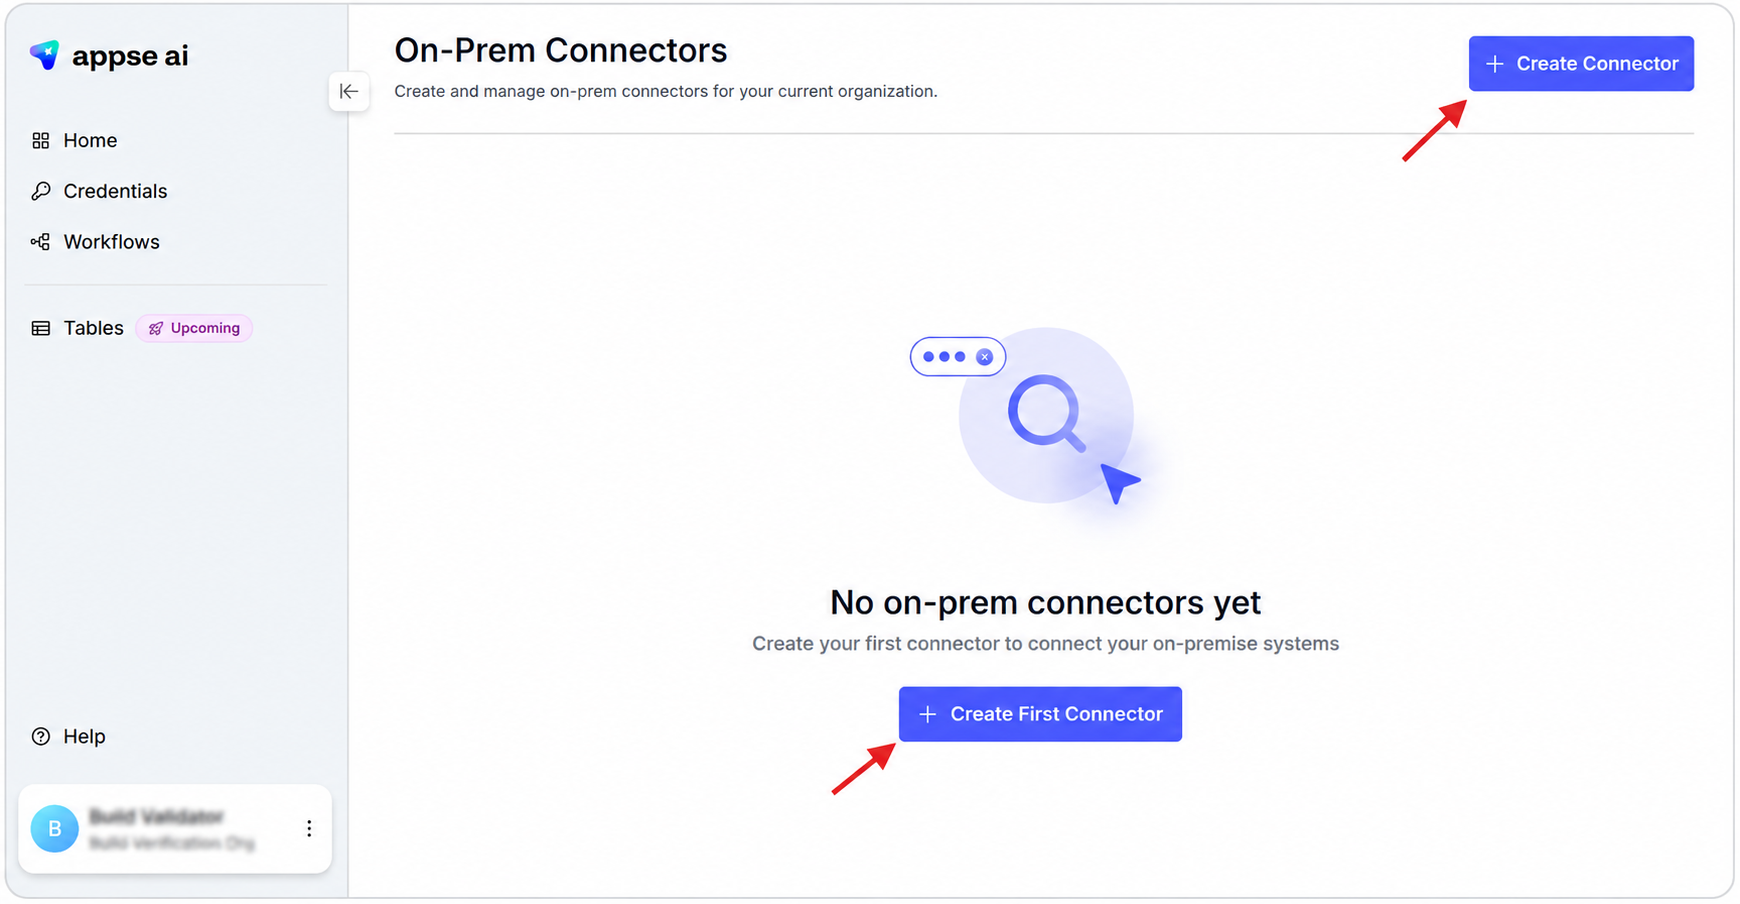
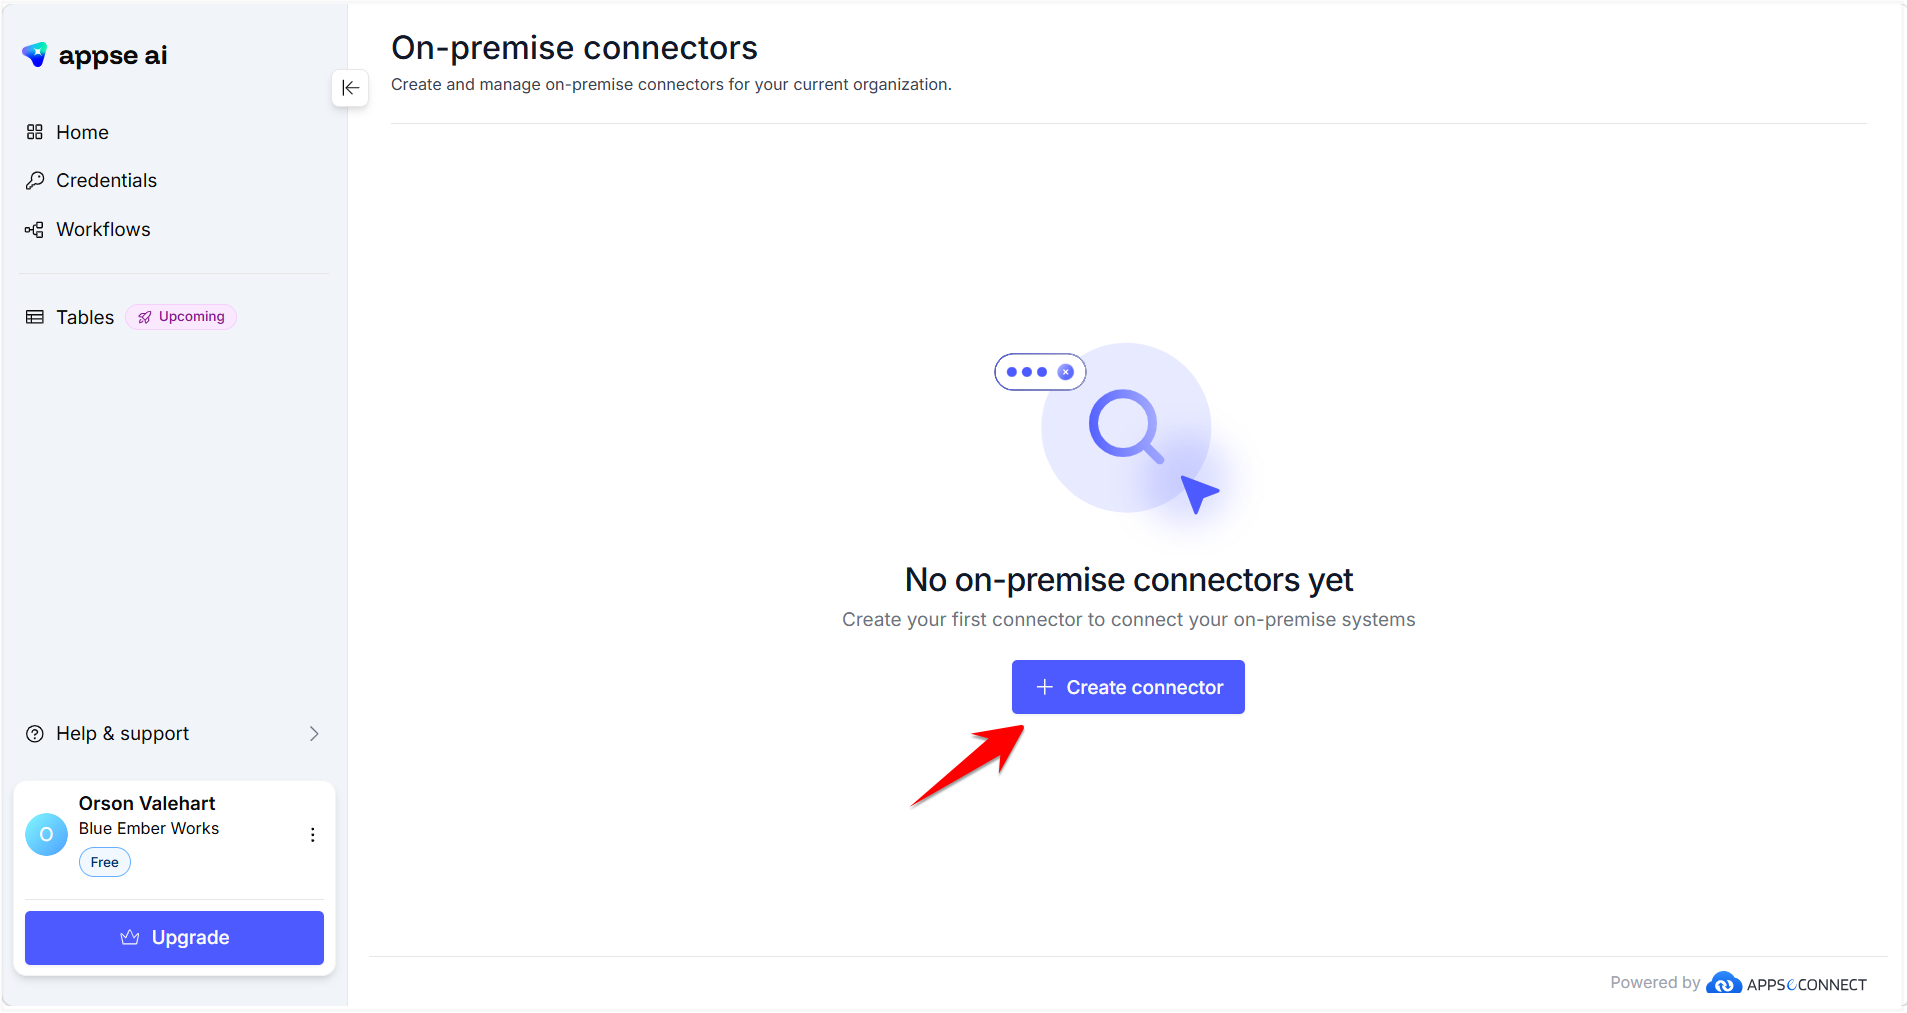
doc update

diff --git a/docs/platform/key_concepts/on-premise-agent/on-prem-agent.md b/docs/platform/key_concepts/on-premise-agent/on-prem-agent.md
@@ -52,7 +52,7 @@ Confirm each item below on the target machine before running the installer.
 | Not supported | Windows 7 / 8 / 8.1 |
 
 :::warning
-Windows Server 2012 R2 cannot natively negotiate the modern TLS cipher suites (ECDHE+GCM) required by the appse ai gateway. A compatibility proxy (for example, stunnel) is required on this OS. Contact your appse ai representative for the compatibility runbook.
+Windows Server 2012 R2 cannot natively negotiate the modern TLS cipher suites (ECDHE+GCM) required by the appse ai gateway.
 :::
 
 ---
@@ -108,24 +108,24 @@ Time drift can cause TLS handshake and authentication token failures.
 
 ---
 
-### Step 2: Open the On-Prem Connectors Creation Screen
+### Step 2: Open the On-premise connectors Creation Screen
 
-The **On-Prem Connectors** page displays all available connectors for your organization.
+The **On-premise connectors** page displays all available connectors for your organization.
 
 If no connectors are available, the empty state screen is displayed.
 
-- Click **Create First Connector** or **Create Connector**
+- Click **Create connector**
 
 <img src="/img/platform/key-concepts/on-premise-agent/create-on-prem-connectors.png" alt="Create On-Prem Connector" width="700"/>
 
 ---
 
-### Step 3: Configure the On-Prem Connector
+### Step 3: Configure the On-premise connector
 
-In the **Create On-Prem Connector** popup:
+In the **Create on-premise connector** popup:
 
 - Enter a unique **Connector Name**
-- Click **Create Connector**
+- Click **Create**
 
 <img src="/img/platform/key-concepts/on-premise-agent/click-on-create-connector.png" alt="Create On-Prem Connector Popup" width="700"/>
 
